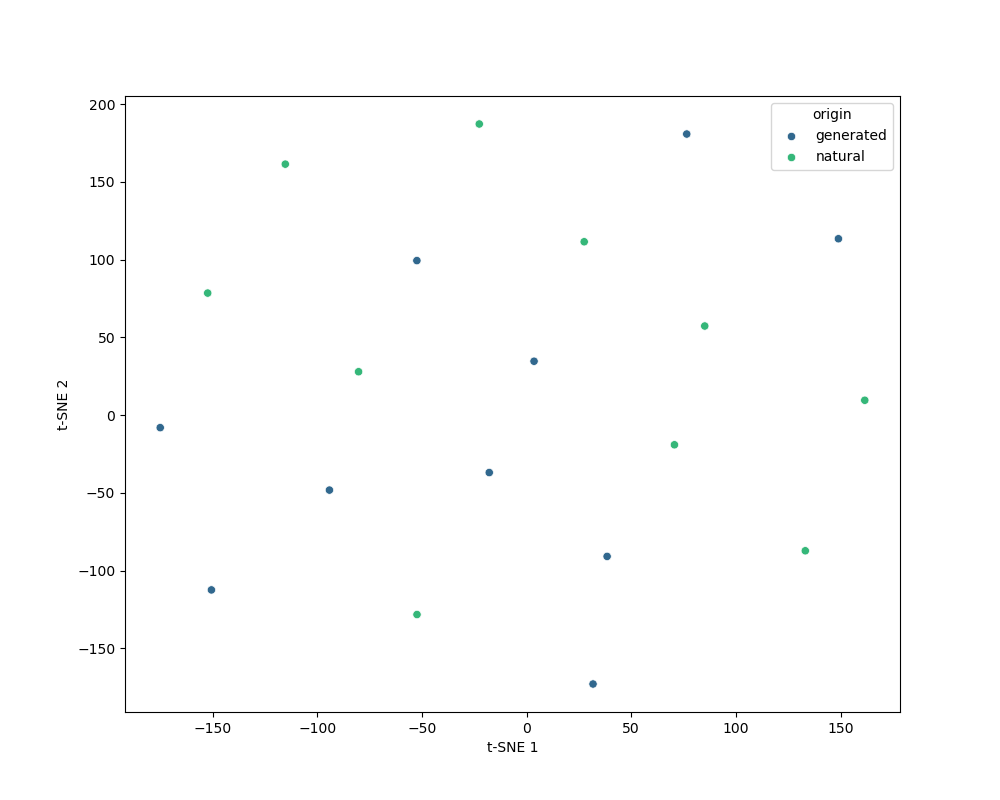
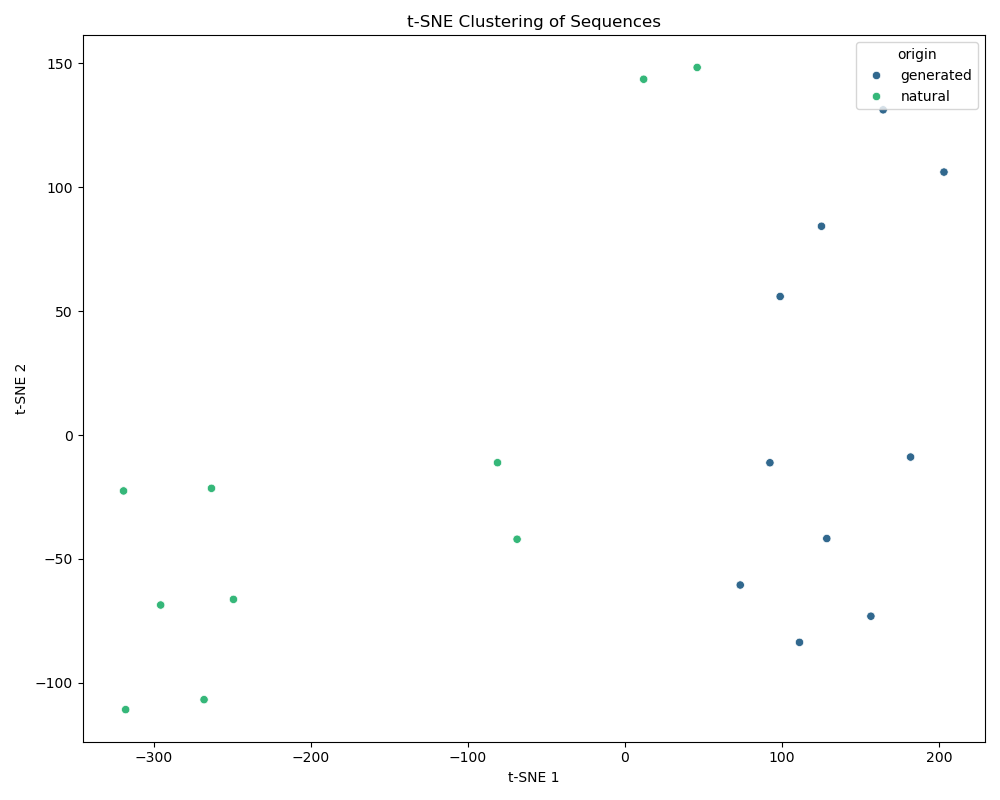
fixed t-sne perplexity for smaller datasets, some snakefile additions(may not be neccesary)

diff --git a/workflow/scripts/plot_clustering.py b/workflow/scripts/plot_clustering.py
@@ -5,6 +5,7 @@ import pandas as pd
 import seaborn as sns
 import matplotlib.pyplot as plt
 from sklearn.manifold import TSNE
+from sklearn.decomposition import PCA
 
 def load_distance_matrix(file_path):
     dist_mat = pd.read_csv(file_path, index_col=0, header=None, skiprows=1, sep=r'\s+')
@@ -15,37 +16,75 @@ def load_distance_matrix(file_path):
 def load_metadata(file_path):
     return pd.read_csv(file_path)
 
-def plot_tsne(distance_matrix, output_file='tsne_plot.png', metadata=None):
+def plot_tsne(distance_matrix, output_file='tsne_plot.png', metadata=None,
+              perplexity=None, force_pca=False):
+    
     num_samples = distance_matrix.shape[0]
-    perplexity = min(30, num_samples - 1)  # Ensure perplexity is valid
 
-    tsne = TSNE(metric='precomputed', init='random', random_state=0, perplexity=perplexity)
-    tsne_results = tsne.fit_transform(distance_matrix)
+    # Auto or manual perplexity
+    if perplexity is None:
+        perplexity = min(30, max(2, num_samples // 3))  # Automatically tuned
+    else:
+        perplexity = max(2, min(perplexity, num_samples - 1))  # Clamp to valid range
+
+    # Decide whether to apply PCA
+    use_pca = force_pca or (num_samples <= 50)
+
+    print(f"[INFO] Samples: {num_samples}")
+    print(f"[INFO] Perplexity: {perplexity}")
+    print(f"[INFO] Using PCA: {use_pca}")
+
+    # Preprocess with PCA if needed
+    if use_pca:
+        pca = PCA(n_components=min(10, num_samples))
+        tsne_input = pca.fit_transform(distance_matrix)
+        tsne_metric = 'euclidean'
+    else:
+        tsne_input = distance_matrix
+        tsne_metric = 'precomputed'
+
+    tsne = TSNE(metric=tsne_metric,
+                init='random',
+                random_state=0,
+                perplexity=perplexity)
+    
+    tsne_results = tsne.fit_transform(tsne_input)
     
     tsne_df = pd.DataFrame(tsne_results, columns=['t-SNE 1', 't-SNE 2'])
     tsne_df['id'] = distance_matrix.index
-    
+
     plt.figure(figsize=(10, 8))
     
     if metadata is not None:
-        tsne_df = tsne_df.merge(metadata, on='id', how='left')  # Ensure proper merging
+        tsne_df = tsne_df.merge(metadata, on='id', how='left')
         sns.scatterplot(data=tsne_df, x='t-SNE 1', y='t-SNE 2', hue='origin', palette='viridis')
     else:
         sns.scatterplot(data=tsne_df, x='t-SNE 1', y='t-SNE 2')
     
+    plt.title("t-SNE Clustering of Sequences")
+    plt.tight_layout()
     plt.savefig(output_file)
-    plt.close()  # Close the plot to prevent display issues in Snakemake
+    plt.close()
 
-    print(f"t-SNE plot saved to: {output_file}")
+    print(f"[INFO] t-SNE plot saved to: {output_file}")
 
 if __name__ == "__main__":
     parser = argparse.ArgumentParser(description='Plot t-SNE clustering from a distance matrix.')
     parser.add_argument('distance_matrix', type=str, help='Path to the distance matrix file (TSV format).')
-    parser.add_argument('output_plot', type=str, default='tsne_plot.png', help='Output file for the plot (default: tsne_plot.png).')
-    parser.add_argument('--metadata', type=str, help='Optional CSV file containing IDs and origins for coloring the plot.')
-    
+    parser.add_argument('output_plot', type=str, help='Output file for the plot (e.g., tsne.png).')
+    parser.add_argument('--metadata', type=str, help='Optional CSV file with columns: id, origin')
+    parser.add_argument('--perplexity', type=int, default=None, help='Optional perplexity override (e.g., 5)')
+    parser.add_argument('--force_pca', action='store_true', help='Force PCA preprocessing regardless of sample size')
+
     args = parser.parse_args()
-    
+
     distance_matrix = load_distance_matrix(args.distance_matrix)
     metadata = load_metadata(args.metadata) if args.metadata else None
-    plot_tsne(distance_matrix, args.output_plot, metadata)
+
+    plot_tsne(
+        distance_matrix=distance_matrix,
+        output_file=args.output_plot,
+        metadata=metadata,
+        perplexity=args.perplexity,
+        force_pca=args.force_pca
+    )
